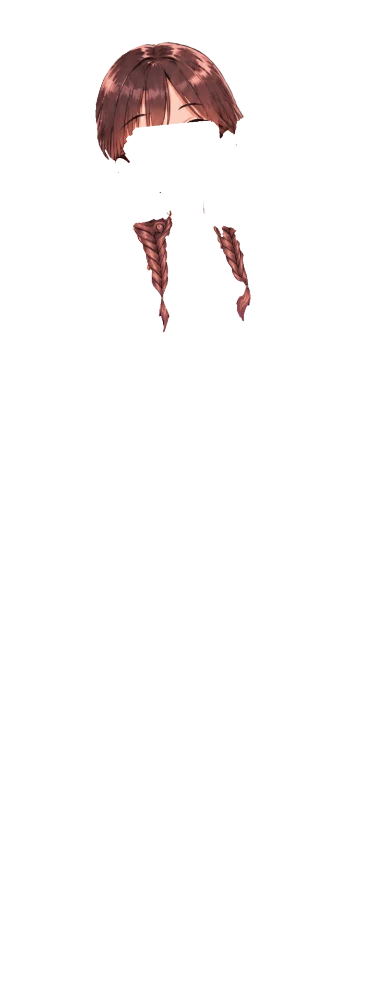
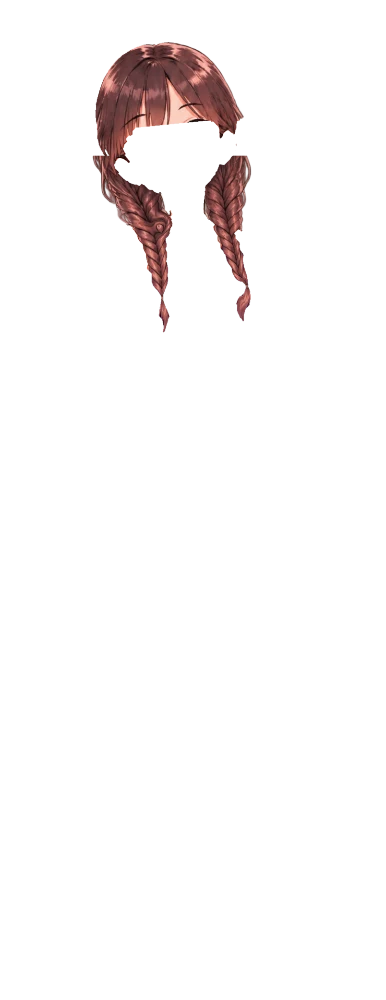
v95: 麻花辮整條畫在衣服上面（耳朵以下、脖子旁邊那段也是前髮），穿帽 T 不再被帽子蓋住斷成兩截；辮子內側貼著脖子的小缺口補滿

Changed region(s): [[0.5285, 0.155, 0.6528, 0.248], [0.2487, 0.155, 0.4352, 0.248]]

diff --git a/sw.js b/sw.js
@@ -1,5 +1,5 @@
 // 離線快取：先用網路，失敗時用快取（內容更新時改版本號）
-const CACHE = 'idolstudy-v94';
+const CACHE = 'idolstudy-v95';
 const FILES = ['./', './index.html', './css/style.css', './css/talk.css', './css/rewards.css', './css/lobby-pastel.css', './css/pastel-pages.css', './css/names.css', './css/v2.css', './css/drama.css', './js/names.js', './js/rewards.js', './js/app.js', './js/data.js', './js/store.js', './manifest.webmanifest', './icons/icon-192.png', './js/course.js', './js/util.js', './js/talk.js', './js/sound.js', './js/drama.js', './js/games.js', './js/course2.js', './js/course3.js', './js/themes.js', './js/extras.js', './js/bank.js', './js/examdata.js', './js/exam.js', './js/npc.js', './js/hangul.js', './js/hangul-art.js', './js/facemap.js', './js/avatar.js', './js/doll-index.js', './js/doll-acc.js', './js/doll-acc-size.js', './js/friends.js', './js/cloud.js', './js/chat.js', './js/chatcards.js', './js/binder.js', './js/eggs.js', './css/exam.css', './css/fx.css', './css/chat.css', './css/me.css', './css/binder.css', './css/home-stage.css', './css/hsing.css', './js/hsing.js', './assets/art/bg-practice.webp', './assets/art/teacher-cut.webp', './assets/art/teacher-face.webp', './assets/art/logo.webp', './assets/art/bn-closet.webp', './assets/art/bn-cards.webp', './assets/art/bn-friends.webp', './assets/art/bn-map.webp', ...['home','wrong','cards','me','mic','speaker','gift','fire','book','chat','star','heart','zh','en','ko','meme','medal','map','trophy'].map((n) => `./assets/art/icons/ui-${n}.webp`)];
 
 self.addEventListener('install', (e) => {
